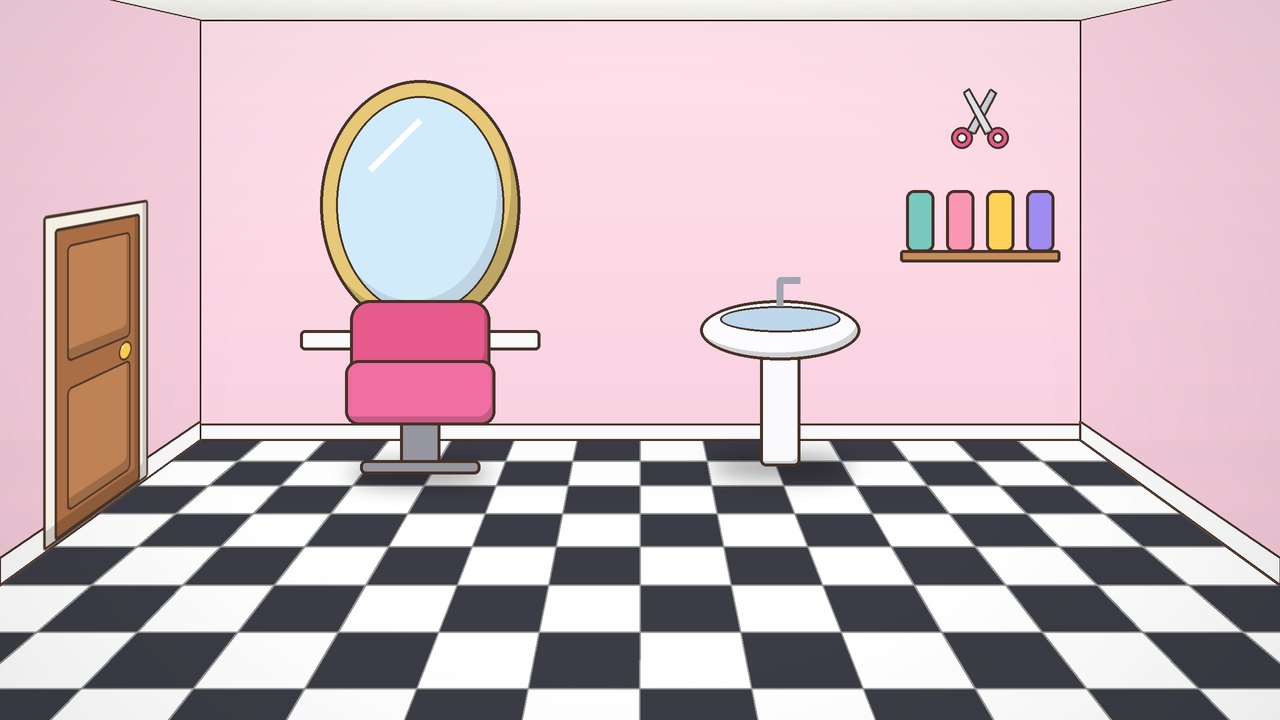
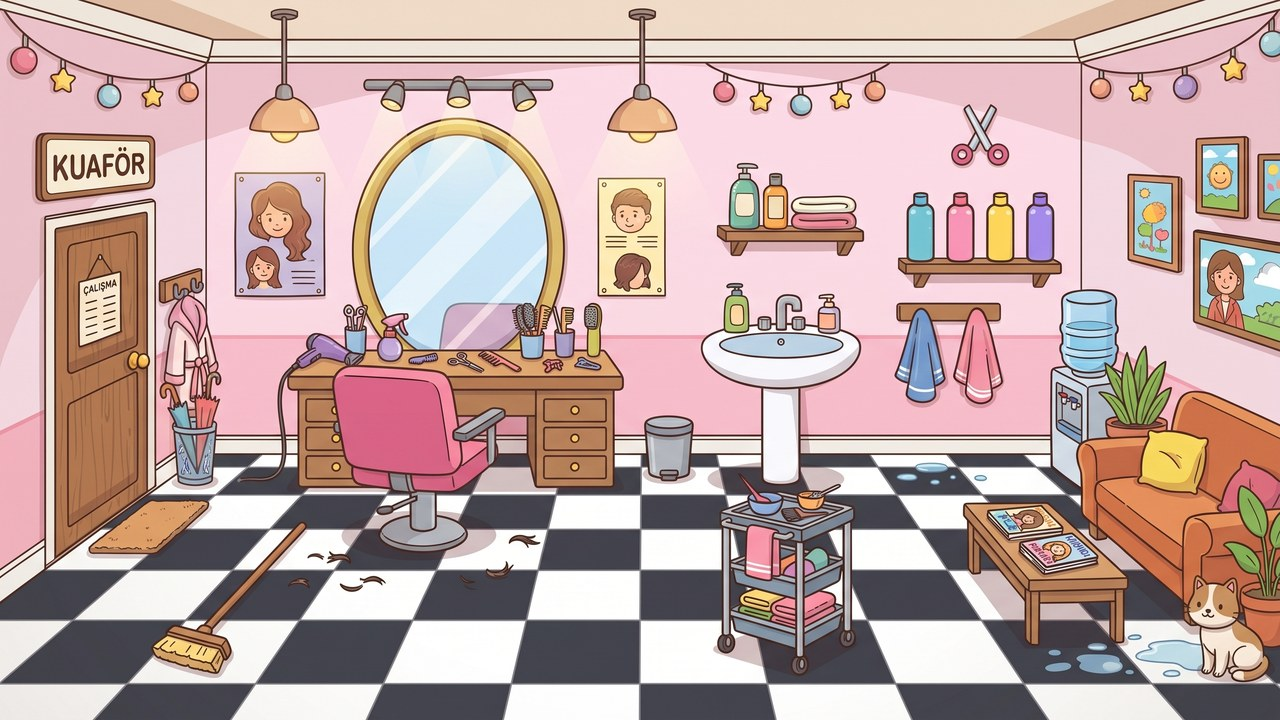
Kuaför: yeni resim, kuaför koltuğu ve kanepede oturma, lavabo ve su sebili
Claude-Session: https://claude.ai/code/session_01FSkVF6b9FMUcpnurV8yuFZ

diff --git a/js/veri.js b/js/veri.js
@@ -507,16 +507,24 @@ window.OYUN_VERI = {
     },
     kuafor: {
       ad: "Kuaför", simge: "kuafor",
-      resim: "cizimler/mekan/kuafor.jpg", zemin: ZEMIN, giris: GIRIS_SOL,
-      kapilar: [{ ...KAPI_SOL, hedef: "dunya", yer: "kuafor" }],
+      resim: "cizimler/mekan/kuafor.jpg",
+      zemin: { ust: 470, alt: 705, sol: 30, sag: 1250, ufuk: { x: 640, y: 160 }, arka: { sol: 210, sag: 1080, y: 455 } },
+      giris: { x: 230, y: 600 },
+      kapilar: [{ x: 40, y: 200, w: 118, h: 360, hedef: "dunya", yer: "kuafor" }],
       calisan: {
-        meslek: "kuafor", x: 560, y: 495,
+        meslek: "kuafor", x: 655, y: 565,
         selam: "Hoş geldiniz! Saçınızı bugün nasıl kesmemi istersiniz?",
         sozler: ["Uçlarını mı alalım, kısa mı keselim?", "Önce saçınızı yıkayalım.", "Fön mü çekelim, maşa mı yapalım?", "Kakül ister misiniz?", "Saçınız çok güzel oldu!"],
       },
       noktalar: [
-        { tur: "otur", x: 340, y: 290, w: 160, h: 190, oturma: { x: 420, y: 452 } },
-        { tur: "musluk", x: 700, y: 270, w: 160, h: 100, su: { x: 800, y: 288, boy: 24 } },
+        // Pembe kuaför koltuğu, aynanın önünde.
+        { tur: "otur", x: 330, y: 360, w: 180, h: 180, oturma: { x: 410, y: 500 } },
+        // Turuncu kanepe.
+        { tur: "otur", x: 1090, y: 395, w: 190, h: 170, oturma: { x: 1175, y: 535 } },
+        { tur: "tezgah", x: 290, y: 300, w: 335, h: 80, ust: 372 },
+        { tur: "musluk", x: 705, y: 295, w: 155, h: 90, su: { x: 786, y: 322, boy: 22 } },
+        // Su sebili.
+        { tur: "musluk", x: 1050, y: 290, w: 65, h: 165, su: { x: 1070, y: 408, boy: 16 } },
       ],
     },
     kutuphane: {
@@ -606,9 +614,9 @@ window.OYUN_VERI = {
       { id: "kitap2", tur: "esya", sablon: "kitap", mekan: "okul", x: 760, y: 660 },
       { id: "kupa2", tur: "esya", sablon: "kupa", mekan: "kafe", x: 860, y: 620 },
       { id: "stetoskop1", tur: "esya", sablon: "stetoskop", mekan: "hastane", x: 760, y: 640 },
-      { id: "tarak1", tur: "esya", sablon: "tarak", mekan: "kuafor", x: 560, y: 640 },
-      { id: "fon1", tur: "esya", sablon: "fon", mekan: "kuafor", x: 680, y: 660 },
-      { id: "sampuan2", tur: "esya", sablon: "sampuan", mekan: "kuafor", x: 920, y: 620 },
+      { id: "tarak1", tur: "esya", sablon: "tarak", mekan: "kuafor", x: 545, y: 630 },
+      { id: "fon1", tur: "esya", sablon: "fon", mekan: "kuafor", x: 470, y: 670 },
+      { id: "sampuan2", tur: "esya", sablon: "sampuan", mekan: "kuafor", x: 930, y: 600 },
     ],
   },
 };
